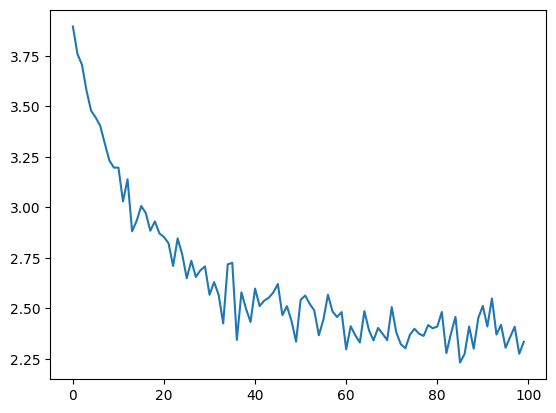
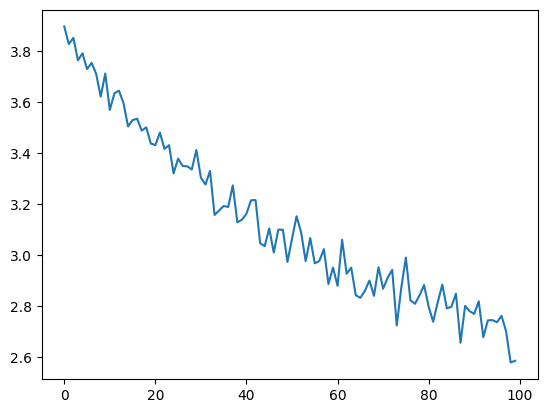
added learned positional embedding

diff --git a/v1_char_level/v1_decoder.py b/v1_char_level/v1_decoder.py
@@ -1,48 +1,30 @@
 import torch
 import torch.nn as nn
 from torch.nn import functional as F
-import numpy as np
-
-class LinearMultiheadAtt(nn.Module):
-    def __init__(self, d_model, n_heads):
-        super().__init__()
-        self.n_heads = n_heads
-
-        self.wq = nn.Parameter(d_model, d_model)
-        self.wk = nn.Parameter(d_model, d_model)
-        self.wv = nn.Parameter(d_model, d_model)
-
-    def forward(self, x, mask=True):
-        pass
-
-class ParallelMultiheadAtt(nn.Module):
-    def __init__(self, d_model, n_heads):
-        super().__init__()
-        self.n_heads = n_heads
-
-        self.wq = nn.Parameter(d_model, d_model)
-        self.wk = nn.Parameter(d_model, d_model)
-        self.wv = nn.Parameter(d_model, d_model)
-        self.wo = nn.Parameter(d_model, d_model)
-
-    def forward(self, x, mask=True):
-        pass
-
-class Decoder(nn.Module):
-    def __init__(self):
-        super().__init__()
 
 class V1Model(nn.Module):
-    def __init__(self, vocab_size, emb_dim):
+    def __init__(self, vocab_size, context_size, emb_dim):
         super().__init__()
+        self.vocab_size = vocab_size
+        self.context_size = context_size
+        self.emb_dim = emb_dim
 
-        self.embedding_table = nn.Embedding(vocab_size, emb_dim)
+        self.tkn_emb_table = nn.Embedding(vocab_size, emb_dim)
+        self.pos_emb_table = nn.Embedding(context_size, emb_dim)
+        # y = x @ A.T + b, where A is (vocab_size, emb_dim) and b in (1, vocab_size)
+        # in practice it is x @ (emb_dim, vocab_size) + (1, vocab_size)
         self.lm_head = nn.Linear(emb_dim, vocab_size)
 
     def forward(self, x, targets=None):
         # x -> (B, S); S = seq len
-        emb_tokens = self.embedding_table(x) # emb_tokens -> (B, S, E); E = embeding dims
-        logits = self.lm_head(emb_tokens) # lm_head (E, V) @ emb_tokens -> (B, S, V); V = vocab size
+        B, S = x.shape
+
+        # token and positiona embeddings
+        tkn_emb = self.tkn_emb_table(x) # tkn_emb -> (B, S, E); E = embeding dims
+        pos_emb = self.pos_emb_table(torch.arange(S)) # pos_emb -> (S, E)
+        x = tkn_emb + pos_emb # (B, S, E)
+
+        logits = self.lm_head(x) # x (B, S, E) @ lm_head (E, V) -> (B, S, V); V = vocab size
 
         if targets == None:
             loss = None
@@ -57,12 +39,16 @@ class V1Model(nn.Module):
     def generate(self, generated, max_num_tokens):
         # generated --> (B, S); an array of indices in the current sequence
         for _ in range(max_num_tokens):
-            # get predictions from model
-            logits, _ = self(generated) # logits --> (B, S, V)
+            # get predictions from model with input being up to context_size
+            _, S = generated.shape
+            x = generated[:, -self.context_size:] if S > self.context_size else generated
+
+            logits, _ = self(x) # logits --> (B, S, V)
             # get last chars
             logits = logits[:, -1, :] # (B, V)
             # softmax on the vocab dimention
             probs = F.softmax(logits, dim=-1) # (B, V)
+
             # sample from probs distribution
             preds = torch.multinomial(probs, 1) # (B, 1)
             # append preds on generated
@@ -70,7 +56,7 @@ class V1Model(nn.Module):
 
         return generated
 
-def train(model:nn.Module, loader, batch_size=32, steps=100, avg_steps=10):
+def train(model:nn.Module, loader, steps=100, avg_steps=10):
     # create a PyTorch optimizer
     optimizer = torch.optim.AdamW(model.parameters(), lr=1e-3)
 

diff --git a/v1_char_level/v1.py b/v1_char_level/v1.py
@@ -10,6 +10,7 @@ torch.manual_seed(1337)
 PATH = '/home/felipe/Documents/Github/video-transformer/v1_char_level/data/shakespeare.txt'
 BATCH_SIZE = 4
 CONTEXT_SIZE = 8
+EMBEDDING_DIM = 10
 
 #%% Load some Shakespeare
 loader = CharLoader(PATH, BATCH_SIZE, CONTEXT_SIZE)
@@ -21,7 +22,7 @@ print("batch x:",loader.decode(x))
 print("batch y:",loader.decode(y))
 
 #%% Test untrained model
-v1_model = V1Model(loader.vocab_size, loader.vocab_size)
+v1_model = V1Model(loader.vocab_size, CONTEXT_SIZE, EMBEDDING_DIM)
 
 # Loss
 logits, loss = v1_model(x, y)
